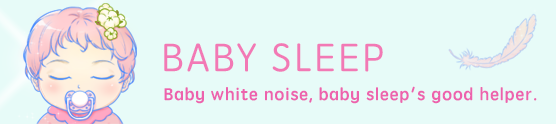
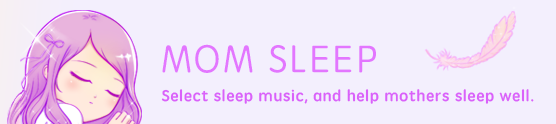
UI调整

Changed region(s): [[0.0, 0.0242, 0.9784, 1.0], [0.7644, 0.0968, 0.9784, 0.5565]]

diff --git a/BabySleep/ViewController.m b/BabySleep/ViewController.m
@@ -90,6 +90,9 @@
     }
 
     UIImageView *titleView = [[UIImageView alloc] initWithFrame:CGRectMake((SCREENWIDTH - 71.35) * 0.5, 40, 71.35, 19.39)];
+    if (![Utility ifChinese]) {
+        titleView.frame = CGRectMake((SCREENWIDTH - 98.6) * 0.5, 43, 98.6, 14.32);
+    }
     titleView.image = [UIImage imageNamed:NSLocalizedString(@"babysleep", nil)];
     [self.view addSubview:titleView];
     

diff --git a/BabySleep/NoiseViewController.m b/BabySleep/NoiseViewController.m
@@ -31,7 +31,7 @@
     UILabel *title = [[UILabel alloc] initWithFrame:CGRectMake(0, 29, SCREENWIDTH, 25)];
     title.textColor = HexRGB(0x1688D2);
     title.textAlignment = NSTextAlignmentCenter;
-    title.text = @"白噪音";
+    title.text = NSLocalizedString(@"noise", nil);
     title.font = [UIFont fontWithName:@"DFPYuanW5" size:18];
     [self.view addSubview:title];
     

diff --git a/BabySleep/LeftViewController.m b/BabySleep/LeftViewController.m
@@ -54,6 +54,8 @@
         [imageArr removeObjectAtIndex:1];
         [selectImageArr removeObjectAtIndex:1];
         [titleArr removeObjectAtIndex:1];
+        
+        titleView.frame = CGRectMake(39 + leftPadding, 33, 103, 42);
     }
 //    BOOL wxInstalled = [WMUserDefault BoolValueForKey:@"WXInstalled"];
 //    if (!wxInstalled) {

diff --git a/BabySleep/Utility/Utility.m b/BabySleep/Utility/Utility.m
@@ -180,4 +180,12 @@ NSUInteger DeviceSystemMajorVersion(){
     
     return FALSE;
 }
+
++(BOOL)ifChinese
+{
+    NSArray *languages = [NSLocale preferredLanguages];
+    NSString *currentLanguage = [languages objectAtIndex:0];
+    
+    return [currentLanguage containsString:@"zh"];
+}
 @end

diff --git a/BabySleep/Utility/Utility.h b/BabySleep/Utility/Utility.h
@@ -78,4 +78,7 @@ NSUInteger DeviceSystemMajorVersion();
 /** 是否静音模式 */
 
 +(BOOL)silenced;
+
++(BOOL)ifChinese;
+
 @end
